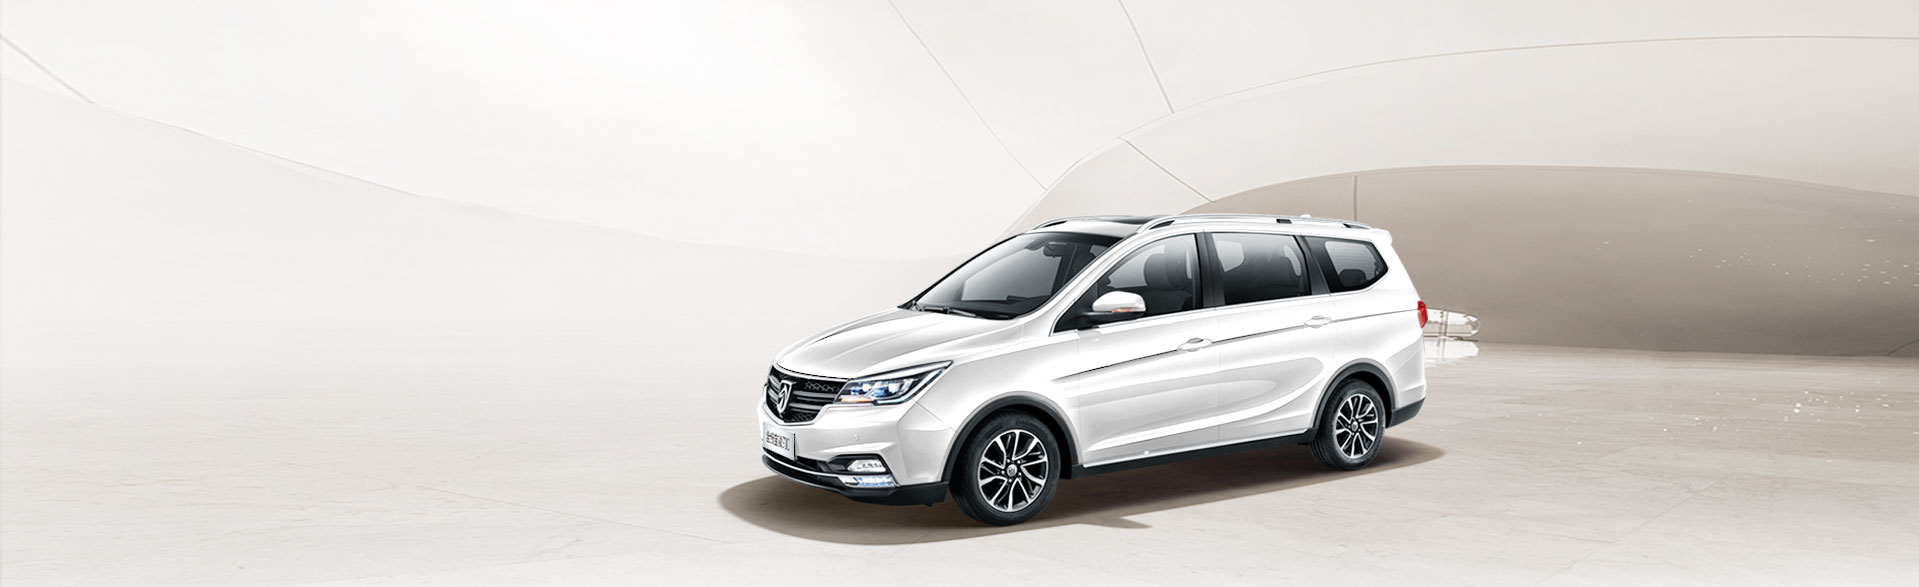
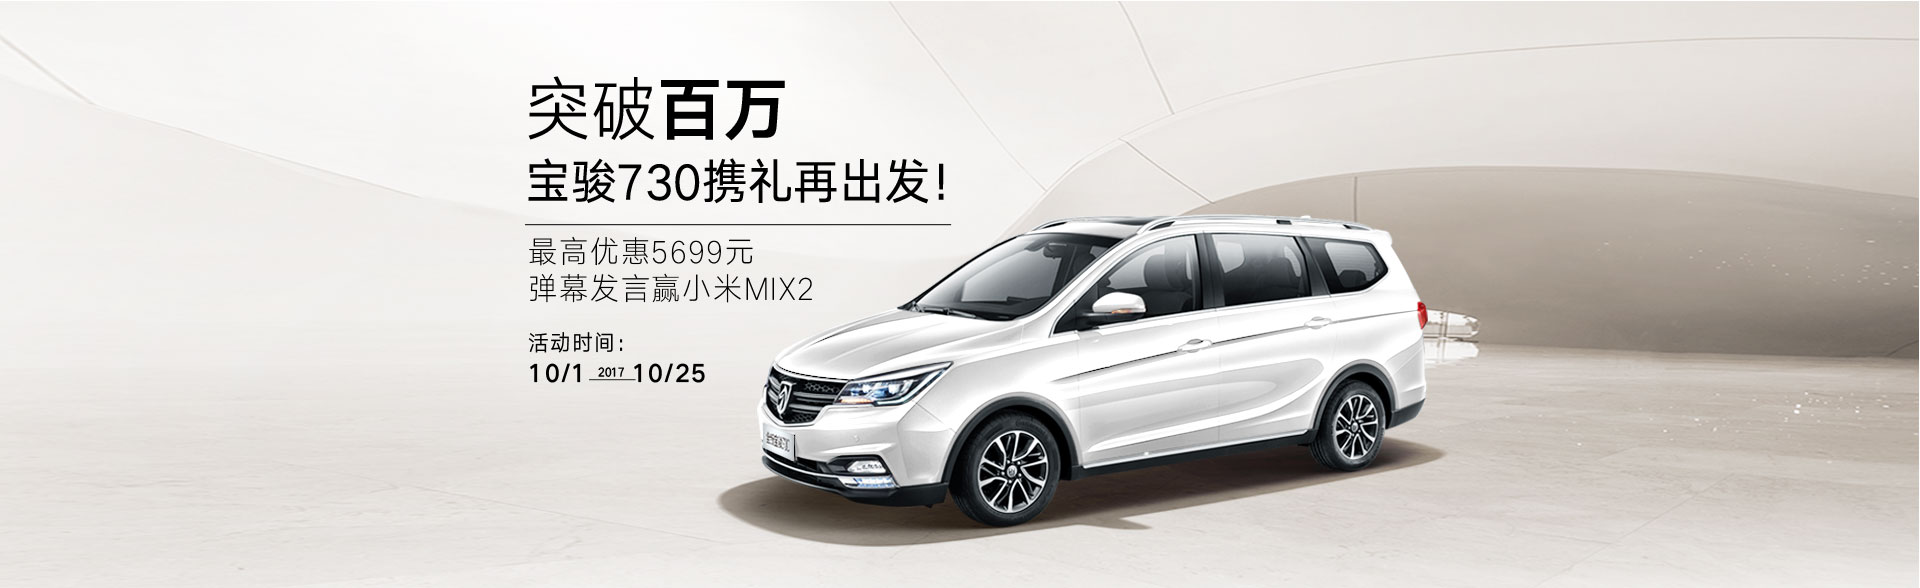
改页面

diff --git a/prev/wap/index.html b/prev/wap/index.html
@@ -22,7 +22,7 @@
     <link rel="stylesheet" href="css/clean.css">
     <link rel="stylesheet" href="lib/swiper.css">
     <link rel="stylesheet" href="css/common.css">
-    <title>一元给全新730的N种可能</title>
+    <title>突破百万，宝骏730携礼再出发！</title>
     <script>
       !(function(a,b,c,d,e,f){var g="",h=a.sessionStorage,i="__admaster_ta_param__",j="tmDataLayer"!==d?"&dl="+d:"";
       if(a[f]={},a[d]=a[d]||[],a[d].push({startTime:+new Date,event:"tm.js"}),h){var k=a.location.search,
@@ -45,10 +45,10 @@
 <body>
 <div class="Container">
     <div class="part_1" id="part_1">
-        <img src="images/part1_text_03.png" alt="" class="text">
+        <!-- <img src="images/part1_text_03.png" alt="" class="text"> -->
         <img src="images/730logo_03.png" alt="" class="logo">
     </div>
-    <div class="part_2" id="part_2">
+    <!-- <div class="part_2" id="part_2">
         <div class="title">
             <img src="images/part_2_title_03.png" alt="">
         </div>
@@ -73,12 +73,30 @@
                 </li>
             </ul>
         </div>
-    </div>
+    </div> -->
     <div class="part_3" id="part_3">
         <img src="images/part_3_title_15.png" alt="" class="title">
-        <img src="images/part_3_btn_03.png" alt="" class="goBuy" index="2">
+        <div class="rightForm" type="#part_3">
+            <ul>
+                <li><input type="text" id="name" value="姓名" maxlength="20"></li>
+                <li style="margin-left: 10px;"><input type="text" id="phone" value="电话" maxlength="11"></li>
+                <li>
+                    <select name="" id="pro" value="省"></select>
+                </li>
+                <li style="margin-left: 10px;">
+                    <select name="" id="city" value="市"></select>
+                </li>
+                <li style="width: 6rem;">
+                    <select name="" id="delear" value="" style="width:5.6rem;"></select>
+                </li>
+                <li style="width: 100%" class="checkMsg">
+                    <label><input type="checkbox" name="userAgree" class="user_agree" id="userAgree"> <span name="checkMsg">本人同意<《用户信息保护及政策声明》，上汽通用五菱 <br>将对您提交的个人信息保密，不对外公开</span></label>
+                </li>
+            </ul>
+        </div>
+        <img type="#part_3" src="images/part_3_btn_03.png" alt="" class="btn goBuy" index="2">
     </div>
-    <div class="part_4" id="part_4">
+    <!-- <div class="part_4" id="part_4">
         <img src="images/part_4_title_03.png" alt="" class="title">
         <div class="text">
             <p>
@@ -95,7 +113,7 @@
             </p>
         </div>
         <div class="btn goBuy" index="3">立即抢购</div>
-    </div>
+    </div> -->
     <div class="context part_6" id="part_6">
         <div class="content">
             <img src="images/part_6_title_03.png" alt="" class="title">
@@ -334,21 +352,15 @@
       index>1?index = 0:index = index;
       miniSwiper.slideTo(index)
     })
-    $(".goBuy").click(function () {
-//        console.log($("#part_2"))
-      if(localStorage.submit_flag){
-        var index = $(this).attr("index");
-  //      $('.Container').scrollTop(8.48*_fontSize,500)
-        if(index == 3){
-          window.open("http://www.bitauto.com/topics/adtopic/baojun_jingpai/index.shtml?rfpa_tracker=30_36_2592&ychrfpa_tracker=20_15_1_590_2&cta_p=sy6_cu30_pc36_mt2592_wb143#jp2");
-        }else{
-          window.open("http://mall.autohome.com.cn/subject/2017/9/baojunpinpai33/");
-        }
-        sqmObj[index].call();
-      }else{
-        alert('请先提交信息');
-      }
-    })
+//     $(".goBuy").click(function () {
+// //        console.log($("#part_2"))
+//       if(localStorage.submit_flag){
+//         window.open('https://m.mall.autohome.com.cn/subject/2017/10/shilibaojun33/')
+//         sqmObj[2].call();
+//       }else{
+//         alert('请先提交信息');
+//       }
+//     })
     function createPro() {
       $("#pro").empty();
       $("#pro").append('<option sid="-1">请选择</option>');
@@ -400,7 +412,7 @@
         }
       }
     });
-    $("#part_2 .btn").click(function () {
+    $("#part_3 .btn").click(function () {
       sqmObj['1a'].call();
       if($("#userAgree").attr("checked")!='checked'){
         layer.alert("请勾选同意《用户信息保护及政策声明》");
@@ -479,10 +491,12 @@
         success: function (result) {
           var wr = result.success[0].result;
           if (wr == 1) {
-            layer.alert("预约成功");
             _tel = _tel.substring(0,3)+'****'+_tel.substring(7,11)
             localStorage.submit_flag = true;
             sqmObj["1b"](_name, _tel, _province, _city, _dealer);
+            sqmObj[2].call();
+            alert("预约成功");
+            window.location.href='https://m.mall.autohome.com.cn/subject/2017/10/shilibaojun33/';
           } else if (wr == 2) {
             layer.alert('您已预约成功,请勿重复提交');
           } else {

diff --git a/prev/wap/css/common.css b/prev/wap/css/common.css
@@ -161,28 +161,28 @@
     font-weight: bold;
     font-size: 0.22rem;
     border-radius: 0.04rem;
-    margin-top: 0.42rem;
+    margin-top: 0.24rem;
     margin-left: 0.8rem;
     /*margin-left: 120px;*/
 }
 #part_4 .text{
     width:5.2rem;
     color:#666666;
-    line-height: 0.4rem;
-    font-size: 0.22rem;
+    line-height: 0.32rem;
+    font-size: 0.2rem;
     margin-left: 0.8rem;
     font-weight:bold;
 }
 #part_4{
     width: 7.5rem;
-    height: 6.48rem;
+    height: 6.57rem;
     background: url("../images/part_4_bg_13.jpg");
     background-size:100% 100%;
     position: relative;
 }
 #part_3{
     width: 7.5rem;
-    height: 6.96rem;
+    height: 8.47rem;
     background: url("../images/part_3_bg_02.jpg");
     background-size:100% 100%;
     position: relative;
@@ -197,7 +197,7 @@
     width: 2.4rem;
     display: block;
     margin:0 auto;
-    margin-top: 4.42rem;
+    margin-top: 0.36rem;
 }
 #part_2{
     width: 7.5rem;
@@ -266,7 +266,7 @@
     background-image: url(../images/check_on_21.png);
     background-size: 100% 100%;
 }
-#part_2 .rightForm input[type='text'],select,input[type='phone']{
+#part_2 .rightForm input[type='text'],#part_2 .rightForm select, #part_2 .rightForm input[type='phone']{
     width: 2.69rem;
     height: 0.49rem;
     line-height: 0.49rem;
@@ -289,6 +289,132 @@
 }
 #part_2 .rightForm #delear{
     width: 5.56rem;
+}
+
+
+
+#part_3 .rightForm{
+    width: 6.08rem;
+    /*margin:0 auto;*/
+    font-size: 0.16rem;
+    margin-top: 3rem;
+    overflow: hidden;
+    margin-left: 1rem;
+}
+#part_3 .rightForm li{
+    float: left;
+    width: 2.69rem;
+    height: 0.49rem;
+    margin-bottom: 0.2rem;
+
+}
+#part_3 .rightForm li.checkMsg{
+    font-size: 0.18rem;
+    line-height: 0.24rem;
+    font-weight:bold;
+    color: #d8d8d8;
+}
+#part_3 .rightForm input[type='checkbox']{
+    /*vertical-align: -1px;*/
+    margin-top:-0.02rem;
+    -webkit-appearance:none;
+    appearance:none;
+    width:0.18rem;
+    height: 0.18rem;
+    background-image: url(../images/check_off_new.png);
+    background-size: 100% 100%;
+}
+#part_3 .rightForm input[type='checkbox']:checked{
+    background-image: url(../images/check_on_new.png);
+    background-size: 100% 100%;
+}
+#part_3 .rightForm input[type='text'],#part_3 .rightForm select, #part_3 .rightForm input[type='phone']{
+    width: 2.69rem;
+    height: 0.49rem;
+    line-height: 0.49rem;
+    border: 1px solid #9d9ea1;
+    color: #d6d6d6;
+    -webkit-border-radius:0.04rem;
+    -moz-border-radius:0.04rem;
+    border-radius:0.04rem;
+    font-weight:bold;
+    padding-left: 0.1rem;
+    background-color: rgba(0,0,0,0)!important;
+}
+#part_3 .rightForm select{
+    appearance:none;
+    -moz-appearance:none;
+    -webkit-appearance:none;
+    background-image: url("../images/selectBg_new.png");
+    background-position: right center;
+    background-repeat: no-repeat;
+}
+#part_3 .rightForm select[name='delear']{
+    width: 5.56rem;
+}
+
+
+
+
+#part_4 .rightForm{
+    width: 4.58rem;
+    /*margin:0 auto;*/
+    font-size: 0.16rem;
+    /*margin-top: 3.16rem;*/
+    overflow: hidden;
+    margin-left: 0.78rem;
+    margin-top: 0.36rem;
+}
+#part_4 .rightForm li{
+    float: left;
+    width: 1.72rem;
+    height: 0.32rem;
+    margin-bottom: 0.14rem;
+
+}
+#part_4 .rightForm li.checkMsg{
+    font-size: 0.14rem;
+}
+#part_4 .rightForm input[type='checkbox']{
+    /*vertical-align: -1px;*/
+    margin-top:-0.04rem;
+    -webkit-appearance:none;
+    appearance:none;
+    width:0.24rem;
+    height: 0.24rem;
+    background-color: rgba(0,0,0,0);
+    background-image: url(../images/check_off_21.png);
+    background-size: 100% 100%;
+}
+#part_4 .rightForm input[type='checkbox']:checked{
+    background-color: rgba(0,0,0,0);
+    background-image: url(../images/check_on_21.png);
+    background-size: 0.24rem 0.24rem;
+}
+#part_4 .rightForm input[type='text'],#part_4 .rightForm select, #part_4 .rightForm input[type='phone']{
+    width: 1.72rem;
+    height: 0.32rem;
+    line-height: 0.32rem;
+    border: 1px solid #8f8f8f;
+    color: #8f8f8f;
+    -webkit-border-radius:0.04rem;
+    -moz-border-radius:0.04rem;
+    border-radius:0.04rem;
+    font-weight:bold;
+    padding-left: 0.1rem;
+    background-color: rgba(0,0,0,0);
+}
+#part_4 .rightForm select{
+    appearance:none;
+    -moz-appearance:none;
+    -webkit-appearance:none;
+    background-image: url("../images/selectBg_10.png");
+    background-size: 0.184rem 0.09rem;
+    background-position: right center;
+    background-repeat: no-repeat;
+}
+#part_4 .rightForm select[name='delear']{
+    width: 3.66rem;
 }
 
 

diff --git a/prev/pc/index.html b/prev/pc/index.html
@@ -12,7 +12,7 @@
     <link rel="stylesheet" href="css/clean.css">
     <link rel="stylesheet" href="lib/swiper.css">
     <link rel="stylesheet" href="css/common.css">
-    <title>一元给全新730的N种可能</title>
+    <title>突破百万，宝骏730携礼再出发！</title>
     <script>!(function(a,b,c,d,e,f){var g="",h=a.sessionStorage,i="__admaster_ta_param__",j="tmDataLayer"!==d?"&dl="+d:"";
       if(a[f]={},a[d]=a[d]||[],a[d].push({startTime:+new Date,event:"tm.js"}),h){var k=a.location.search,
         l=new RegExp("[?&]"+i+"=(.*?)(&|#|$)").exec(k)||[];l[1]&&h.setItem(i,l[1]),l=h.getItem(i),
@@ -35,7 +35,7 @@
     <!--第一屏-->
     <div class="context part_1" id="part_1">
         <div class="content">
-            <div class="text"><img alt="" src="images/part1_text_03.png"></div>
+            <!-- <div class="text"><img alt="" src="images/part1_text_03.png"></div> -->
             <div class="logo"><img src="images/730logo_03.png" alt=""></div>
         </div>
     </div>
@@ -73,7 +73,7 @@
             <div class="btn goBuy" index="2"><img src="images/part_3_btn_03.png" alt=""></div>
         </div>
     </div>
-    <div class="context part_4" id="part_4">
+    <!-- <div class="context part_4" id="part_4">
         <div class="content">
             <div class="title"><img src="images/part_4_title_03.png"></div>
             <div class="text">
@@ -92,7 +92,7 @@
             </div>
             <div class="btn goBuy" index="3">立即抢购</div>
         </div>
-    </div>
+    </div> -->
     <div class="context part_6" id="part_6">
         <div class="content">
             <div class="title"><img src="images/part_6_title_03.png" alt=""></div>
@@ -340,7 +340,7 @@
           if(index == 3){
             window.open("http://www.bitauto.com/topics/adtopic/baojun_jingpai/index.shtml?rfpa_tracker=30_36_2592&ychrfpa_tracker=20_15_1_590_2&cta_p=sy6_cu30_pc36_mt2592_wb143#jp2");
           }else{
-            window.open("http://mall.autohome.com.cn/subject/2017/9/baojunpinpai33/");
+            window.open("http://mall.autohome.com.cn/subject/2017/10/shilibaojun33/");
           }
           sqmObj[index].call();
         }else{
